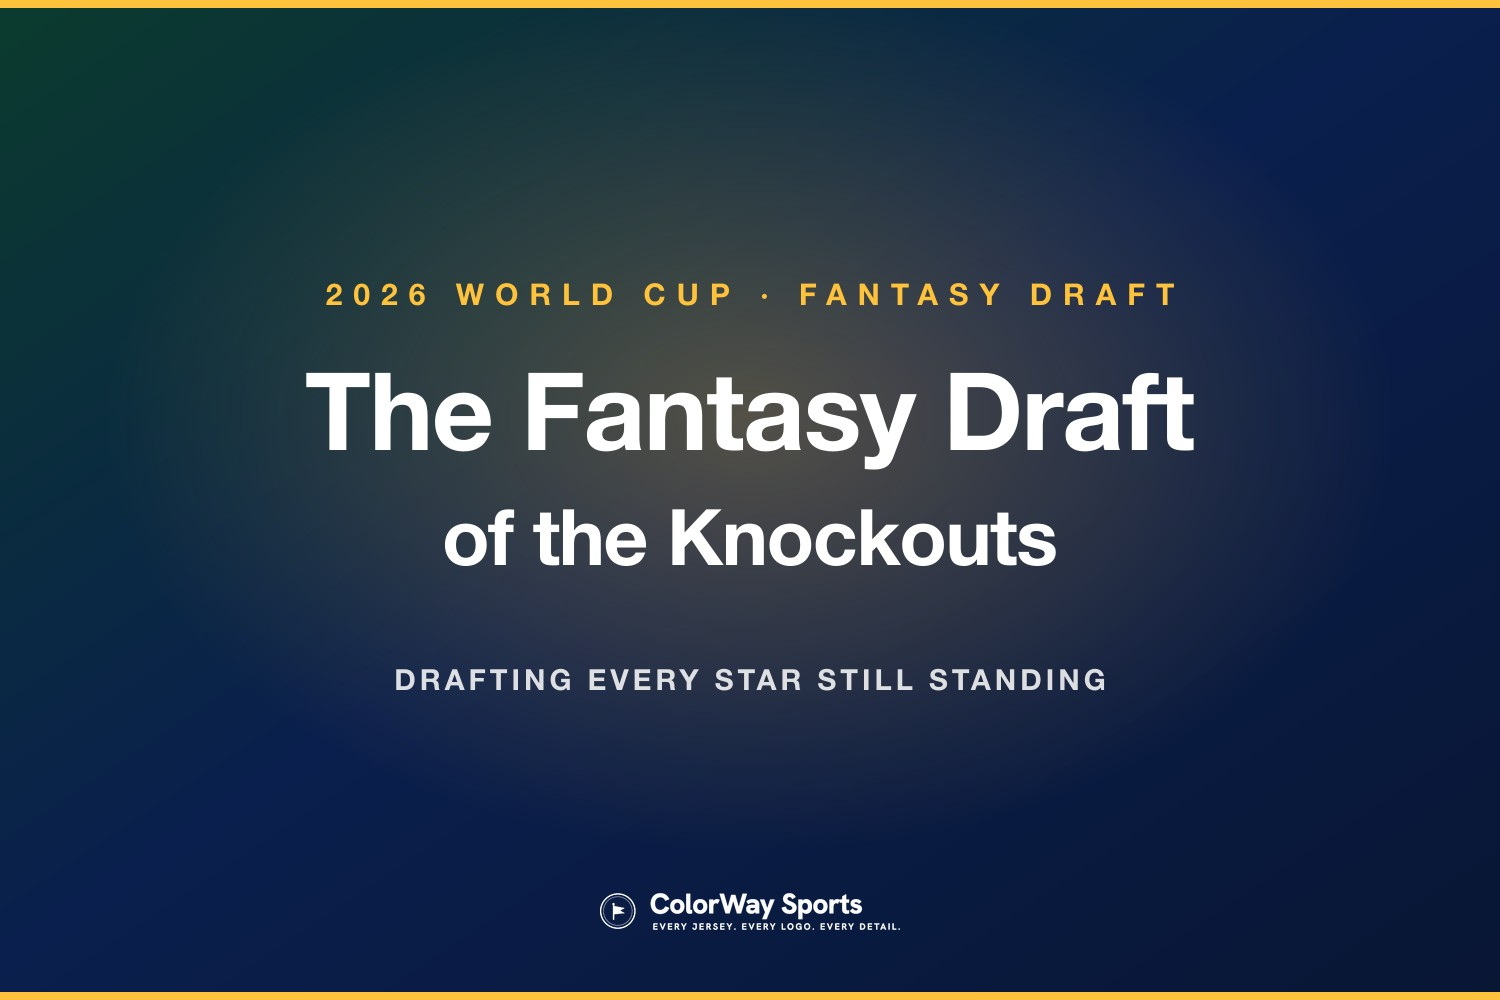
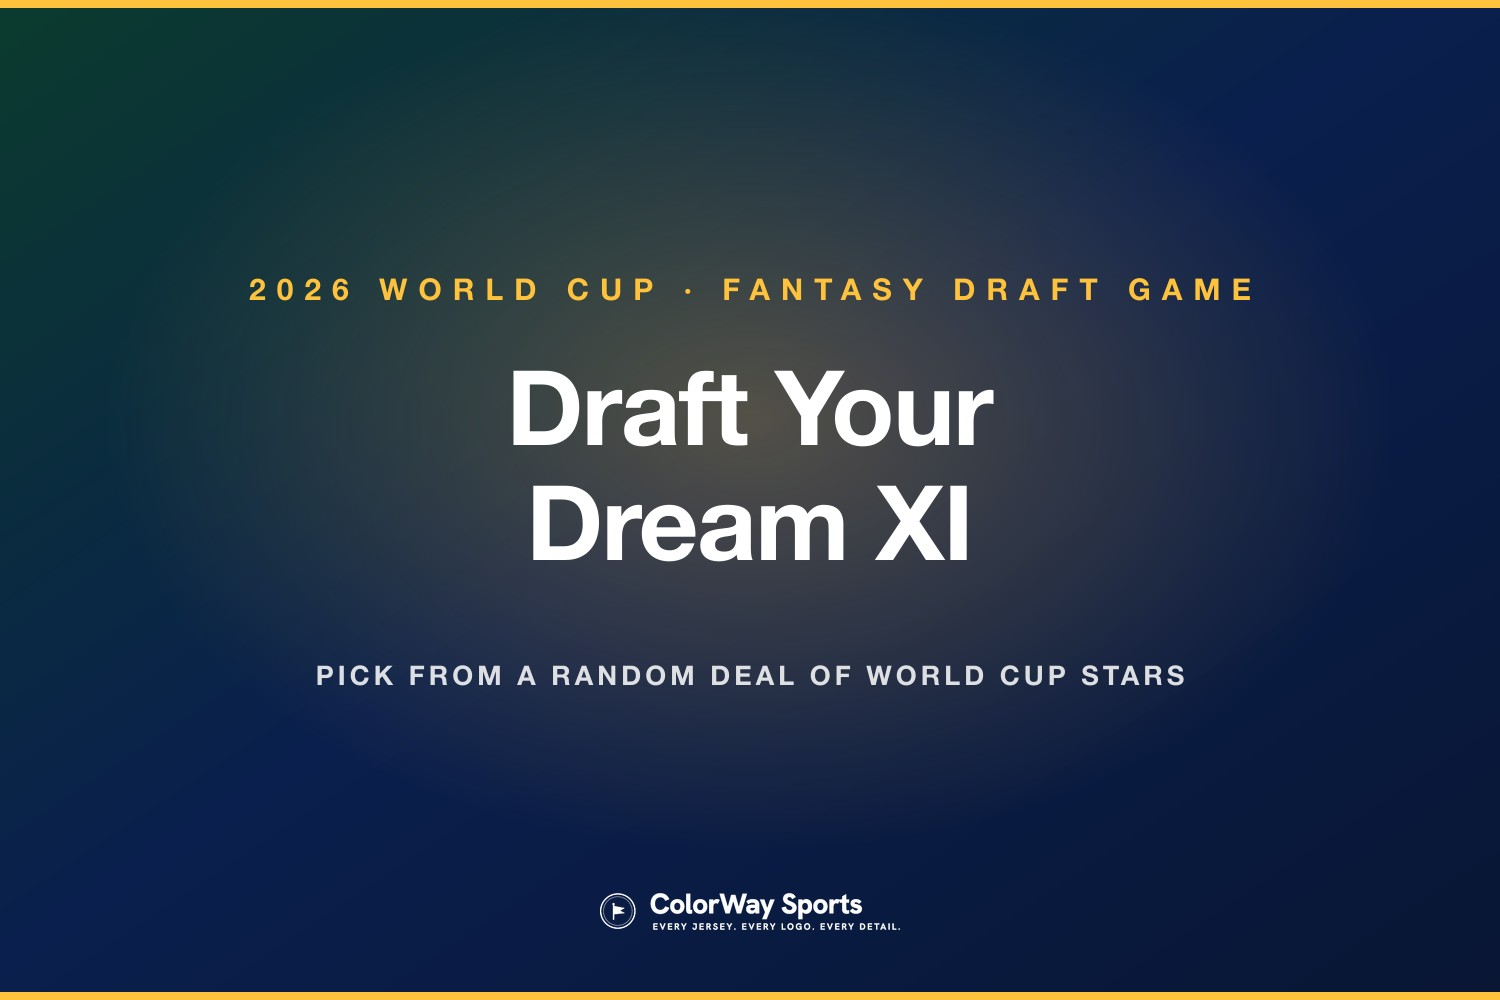
WC fantasy draft tool v2: per-slot shuffle animation, one re-roll per draft, send-to-friends share, max SEO/clickbait copy + FAQ, homepage card (centered, below the two), matched cover. STILL on branch only — not live.

Changed region(s): [[0.184, 0.372, 0.7973, 0.589], [0.2147, 0.651, 0.7973, 0.713], [0.1533, 0.279, 0.828, 0.31]]

diff --git a/components/WorldCupSquadDraft.tsx b/components/WorldCupSquadDraft.tsx
@@ -1,6 +1,6 @@
 "use client";
 
-import { useState, useEffect, useCallback } from "react";
+import { useState, useEffect, useCallback, useRef } from "react";
 import {
   playerById,
   formation,
@@ -17,6 +17,8 @@ const STORE_KEY = "cw-wc2026-xi-v1";
 const BRAND = "#2f6bed";
 const NAVY = "#0a1f4d";
 const PITCH = "#15803d";
+const ANIM_MS = 720;
+const ANIM_TICK = 80;
 
 function Flag({ code, h = 16 }: { code: string; h?: number }) {
   return (
@@ -33,7 +35,6 @@ function usedIds(squad: Squad, exceptSlot?: string): Set<string> {
   return s;
 }
 
-// Visual pitch rows, top (attack) to bottom (keeper).
 const ROWS: { label: string; ids: string[] }[] = [
   { label: "Forwards", ids: ["f1", "f2", "f3"] },
   { label: "Midfield", ids: ["m1", "m2", "m3"] },
@@ -44,12 +45,39 @@ const ROWS: { label: string; ids: string[] }[] = [
 export default function WorldCupSquadDraft() {
   const [squad, setSquad] = useState<Squad>({});
   const [active, setActive] = useState<string>("gk");
-  const [options, setOptions] = useState<Player[]>([]);
+  const [display, setDisplay] = useState<Player[]>([]); // cards shown (flicker while shuffling)
+  const [shuffling, setShuffling] = useState(false);
+  const [rerollUsed, setRerollUsed] = useState(false);
   const [mounted, setMounted] = useState(false);
 
-  const redeal = useCallback((slot: string, sq: Squad) => {
+  const finalRef = useRef<Player[]>([]);
+  const intervalRef = useRef<ReturnType<typeof setInterval> | null>(null);
+  const timeoutRef = useRef<ReturnType<typeof setTimeout> | null>(null);
+
+  const clearTimers = () => {
+    if (intervalRef.current) clearInterval(intervalRef.current);
+    if (timeoutRef.current) clearTimeout(timeoutRef.current);
+    intervalRef.current = null;
+    timeoutRef.current = null;
+  };
+
+  // Deal a slot with a visible shuffle: cards flicker through random players, then settle.
+  const deal = useCallback((slot: string, sq: Squad) => {
     const def = formation.find((s) => s.id === slot)!;
-    setOptions(dealOptions(def.pos, usedIds(sq, slot)));
+    const exclude = usedIds(sq, slot);
+    const final = dealOptions(def.pos, exclude);
+    finalRef.current = final;
+    clearTimers();
+    setShuffling(true);
+    setDisplay(dealOptions(def.pos, exclude));
+    intervalRef.current = setInterval(() => {
+      setDisplay(dealOptions(def.pos, exclude));
+    }, ANIM_TICK);
+    timeoutRef.current = setTimeout(() => {
+      clearTimers();
+      setDisplay(finalRef.current);
+      setShuffling(false);
+    }, ANIM_MS);
   }, []);
 
   useEffect(() => {
@@ -59,13 +87,13 @@ export default function WorldCupSquadDraft() {
       if (raw) sq = JSON.parse(raw);
     } catch {}
     const start = firstEmptySlot(sq) ?? "gk";
-    // One-time hydration from localStorage (syncing from an external store on mount).
     // eslint-disable-next-line react-hooks/set-state-in-effect
     setSquad(sq);
     setActive(start);
-    redeal(start, sq);
+    deal(start, sq);
     setMounted(true);
-  }, [redeal]);
+    return clearTimers;
+  }, [deal]);
 
   useEffect(() => {
     if (mounted) {
@@ -76,28 +104,36 @@ export default function WorldCupSquadDraft() {
   }, [squad, mounted]);
 
   const selectSlot = useCallback((slot: string) => {
+    if (shuffling) return;
     setActive(slot);
-    redeal(slot, squad);
-  }, [redeal, squad]);
+    deal(slot, squad);
+  }, [deal, squad, shuffling]);
 
   const draft = useCallback((playerId: string) => {
+    if (shuffling) return;
     setSquad((prev) => {
       const next = { ...prev, [active]: playerId };
       const nextSlot = firstEmptySlot(next);
-      const target = nextSlot ?? active;
-      setActive(target);
-      redeal(target, next);
+      if (nextSlot) {
+        setActive(nextSlot);
+        deal(nextSlot, next);
+      }
       return next;
     });
-  }, [active, redeal]);
+  }, [active, deal, shuffling]);
 
-  const shuffle = useCallback(() => redeal(active, squad), [active, redeal, squad]);
+  const reroll = useCallback(() => {
+    if (shuffling || rerollUsed) return;
+    setRerollUsed(true);
+    deal(active, squad);
+  }, [active, deal, squad, shuffling, rerollUsed]);
 
   const reset = useCallback(() => {
     setSquad({});
     setActive("gk");
-    redeal("gk", {});
-  }, [redeal]);
+    setRerollUsed(false);
+    deal("gk", {});
+  }, [deal]);
 
   const filled = Object.keys(squad).length;
   const complete = filled === TOTAL_SLOTS;
@@ -111,7 +147,7 @@ export default function WorldCupSquadDraft() {
       const file = new File([blob], "my-world-cup-xi.png", { type: "image/png" });
       const nav = navigator as Navigator & { canShare?: (d: unknown) => boolean; share?: (d: unknown) => Promise<void> };
       if (nav.canShare && nav.canShare({ files: [file] }) && nav.share) {
-        await nav.share({ files: [file], title: "My 2026 World Cup XI", text: "I drafted my 2026 World Cup XI on ColorWay Sports." });
+        await nav.share({ files: [file], title: "My 2026 World Cup XI", text: "I drafted my 2026 World Cup XI on ColorWay Sports. Draft yours and send it back: colorwaysports.com/world-cup-fantasy-draft" });
         return;
       }
     } catch {}
@@ -178,37 +214,46 @@ export default function WorldCupSquadDraft() {
       {complete ? (
         <div className="rounded-2xl p-5 text-center" style={{ background: `linear-gradient(135deg, ${NAVY} 0%, ${BRAND} 100%)` }}>
           <div className="text-[11px] font-bold uppercase tracking-[0.18em] mb-1" style={{ color: "#bcd0f5" }}>Your XI is set</div>
-          <div className="text-white text-lg font-extrabold mb-3">All 11 drafted. Share your 2026 World Cup XI.</div>
-          <button onClick={share} className="px-5 py-2.5 rounded-lg text-sm font-bold bg-white" style={{ color: NAVY }}>Share your XI</button>
+          <div className="text-white text-lg font-extrabold mb-3">All 11 drafted from the random deal. Send your XI to your friends and dare them to beat it.</div>
+          <button onClick={share} className="px-5 py-2.5 rounded-lg text-sm font-bold bg-white" style={{ color: NAVY }}>Send your XI to friends</button>
         </div>
       ) : (
         <div>
-          <div className="flex items-center justify-between mb-3">
-            <div>
-              <div className="text-[11px] font-bold uppercase tracking-wider text-gray-400">On the clock</div>
-              <div className="text-lg font-extrabold" style={{ color: NAVY }}>Pick your {posLabel[activeDef.pos]}</div>
+          <div className="flex items-center justify-between mb-3 gap-3">
+            <div className="min-w-0">
+              <div className="text-[11px] font-bold uppercase tracking-wider text-gray-400">On the clock · randomized deal</div>
+              <div className="text-lg font-extrabold truncate" style={{ color: NAVY }}>Pick your {posLabel[activeDef.pos]}</div>
             </div>
-            <button onClick={shuffle} className="px-3 py-2 rounded-lg text-[13px] font-bold text-gray-700 bg-gray-100 hover:bg-gray-200 transition shrink-0">↻ Shuffle 5</button>
+            <button
+              onClick={reroll}
+              disabled={shuffling || rerollUsed}
+              className={`px-3 py-2 rounded-lg text-[13px] font-bold transition shrink-0 ${rerollUsed || shuffling ? "text-gray-400 bg-gray-100 cursor-not-allowed" : "text-gray-700 bg-gray-100 hover:bg-gray-200"}`}
+            >
+              {rerollUsed ? "Re-roll used" : "🎲 Re-roll (1 left)"}
+            </button>
           </div>
           {mounted && (
-            <div className="grid grid-cols-1 sm:grid-cols-2 gap-2.5">
-              {options.map((pl) => (
+            <div className={`grid grid-cols-1 sm:grid-cols-2 gap-2.5 transition-opacity ${shuffling ? "opacity-90" : ""}`}>
+              {display.map((pl, i) => (
                 <button
-                  key={pl.id}
+                  key={`${active}-${i}-${pl.id}`}
                   onClick={() => draft(pl.id)}
-                  className="flex items-center gap-3 text-left px-3.5 py-3 rounded-xl border border-gray-200 bg-white hover:border-[#2f6bed] hover:bg-blue-50 transition"
+                  disabled={shuffling}
+                  className={`flex items-center gap-3 text-left px-3.5 py-3 rounded-xl border bg-white transition ${shuffling ? "border-gray-200 blur-[0.4px] scale-[0.99]" : "border-gray-200 hover:border-[#2f6bed] hover:bg-blue-50"}`}
                 >
                   <Flag code={pl.flag} h={22} />
                   <span className="min-w-0">
                     <span className="block text-[14px] font-bold text-gray-900 truncate">{pl.name}</span>
                     <span className="block text-[11px] text-gray-500">{pl.team} · {posLabel[pl.pos]}</span>
                   </span>
-                  <span className="ml-auto text-[11px] font-bold text-[#2f6bed] shrink-0">Draft →</span>
+                  {!shuffling && <span className="ml-auto text-[11px] font-bold text-[#2f6bed] shrink-0">Draft →</span>}
                 </button>
               ))}
             </div>
           )}
-          <p className="text-xs text-gray-400 mt-3">Tap a player to draft them into your {posLabel[activeDef.pos].toLowerCase()} slot, or tap any spot on the pitch to redraft it. Hit Shuffle for five new options.</p>
+          <p className="text-xs text-gray-400 mt-3">
+            {shuffling ? "Shuffling the deck…" : `Five players are dealt at random for each spot. Tap one to draft them, or use your one re-roll if you do not like the hand.`}
+          </p>
         </div>
       )}
     </div>
@@ -224,7 +269,6 @@ function drawShareImage(squad: Squad): string | null {
   const ctx = c.getContext("2d");
   if (!ctx) return null;
 
-  // pitch
   const g = ctx.createLinearGradient(0, 0, 0, H);
   g.addColorStop(0, "#1a8f45");
   g.addColorStop(1, "#0f5f30");

diff --git a/app/world-cup-fantasy-draft/page.tsx b/app/world-cup-fantasy-draft/page.tsx
@@ -4,9 +4,9 @@ import Footer from "@/components/Footer";
 import WorldCupSquadDraft from "@/components/WorldCupSquadDraft";
 
 export const metadata: Metadata = {
-  title: "2026 World Cup Fantasy Draft: Draft Your Dream XI From the Stars Still Standing | ColorWay Sports",
+  title: "2026 World Cup Fantasy Draft Game: Build Your Dream XI From the Random Deal | ColorWay Sports",
   description:
-    "Play the interactive 2026 World Cup fantasy draft. Pick one of five random players for every spot in a 4-3-3 and build your dream XI from the stars still alive in the knockouts, then share your team.",
+    "Play the free, interactive 2026 World Cup fantasy draft game. Get dealt five random stars for every spot in a 4-3-3, draft your dream XI from the players still alive in the knockouts, and send your team to your friends.",
 };
 
 export default function WorldCupFantasyDraftPage() {
@@ -14,35 +14,59 @@ export default function WorldCupFantasyDraftPage() {
     <>
       <Header />
       <main className="max-w-[820px] mx-auto px-5 py-12 sm:py-16">
-        <p className="text-[12px] font-bold uppercase tracking-[0.16em] text-[#2f6bed] mb-3">2026 World Cup · Interactive Fantasy Draft</p>
+        <p className="text-[12px] font-bold uppercase tracking-[0.16em] text-[#2f6bed] mb-3">2026 World Cup · Interactive Fantasy Draft Game</p>
         <h1 className="text-3xl sm:text-4xl font-extrabold text-[#003087] tracking-tight mb-4 leading-tight">
           Draft your 2026 World Cup dream XI
         </h1>
         <p className="text-gray-600 leading-relaxed mb-2">
-          The group stage is over and the stars are still standing. Build your ultimate 4-3-3 from the players whose teams
-          are still alive in the knockouts. For every position we deal you <strong>five random players</strong> &mdash; pick the
-          one you want, fill all 11 spots, and crown your dream team.
+          The group stage is over and the superstars are still standing. Can you build the best 4-3-3 from the players whose
+          teams are still alive in the knockouts? For every position we <strong>deal you five random stars</strong> &mdash; you
+          pick one, fill all 11 spots, and crown your dream team. Everyone gets a different deal, so no two XIs are the same.
         </p>
         <p className="text-gray-400 text-sm mb-9">
-          Tap any spot on the pitch to redraft it, hit Shuffle for five new options, and your XI saves automatically on this
-          device. When you are done, share your team.
+          Watch the deck shuffle for each spot, use your one re-roll wisely, and tap any spot on the pitch to redraft it.
+          Your XI saves automatically on this device. When you are done, send your team to your friends and dare them to beat it.
         </p>
 
         <WorldCupSquadDraft />
 
         <div className="mt-16">
-          <h2 className="text-2xl font-extrabold text-[#003087] tracking-tight mb-4">How the 2026 World Cup fantasy draft works</h2>
+          <h2 className="text-2xl font-extrabold text-[#003087] tracking-tight mb-4">How the 2026 World Cup fantasy draft game works</h2>
           <p className="text-gray-600 leading-relaxed mb-4">
-            This is a free, interactive 2026 World Cup fantasy draft. You build a full 4-3-3 starting XI &mdash; one goalkeeper,
-            four defenders, three midfielders, and three forwards. For each position, the draft deals you five random players
-            from the stars whose nations are still alive in the knockout stage. Pick the one you want and the next spot opens up.
-            Do not like your five options? Hit Shuffle for a new set, or tap any filled spot on the pitch to redraft it.
+            This is a free, interactive 2026 World Cup fantasy draft game. You build a full 4-3-3 starting XI &mdash; one
+            goalkeeper, four defenders, three midfielders, and three forwards. For each position the deck shuffles and deals
+            you five random players from the superstars whose nations are still alive in the knockout stage. Pick the one you
+            want and the next spot opens up. The deal is random, so everyone ends up with a different team.
+          </p>
+          <p className="text-gray-600 leading-relaxed mb-4">
+            Do not love your five options? You get <strong>one re-roll for the whole draft</strong>, so spend it wisely. You can
+            also tap any filled spot on the pitch to redraft it. Your team saves on your device, so you can come back and tweak it.
           </p>
           <p className="text-gray-600 leading-relaxed mb-8">
-            Your team saves on your device, so you can come back and tweak it. When the XI is complete, use the share button to
-            save an image of your dream team for your group chat or social. Want to predict how the tournament actually plays out?
-            Fill out our <a href="/world-cup-rooting-guide" className="text-[#2f6bed] font-semibold">interactive 2026 World Cup bracket</a> next.
+            When your XI is complete, hit share to save an image of your dream team and send it to your friends to see who drafted
+            the best lineup. Want to predict how the tournament actually plays out? Fill out our{" "}
+            <a href="/world-cup-rooting-guide" className="text-[#2f6bed] font-semibold">interactive 2026 World Cup bracket</a> next.
           </p>
+
+          <h2 className="text-2xl font-extrabold text-[#003087] tracking-tight mb-4">Frequently asked questions</h2>
+          <div className="space-y-5 mb-8">
+            <div>
+              <p className="font-bold text-gray-800 mb-1">How do you play the 2026 World Cup fantasy draft?</p>
+              <p className="text-gray-600 leading-relaxed">Build a 4-3-3 dream XI. For each of the 11 spots you are dealt five random players from the stars still in the World Cup, and you draft one. Fill every position, then share your team. You get one re-roll for the whole draft if you do not like a hand.</p>
+            </div>
+            <div>
+              <p className="font-bold text-gray-800 mb-1">Which players can I draft?</p>
+              <p className="text-gray-600 leading-relaxed">The pool is the marquee names from the nations still alive in the 2026 World Cup knockout stage &mdash; players like Kylian Mbappé, Erling Haaland, Mohamed Salah, Lionel Messi, Lamine Yamal, and Jude Bellingham, sorted by position so your XI always makes sense.</p>
+            </div>
+            <div>
+              <p className="font-bold text-gray-800 mb-1">Is the draft really random?</p>
+              <p className="text-gray-600 leading-relaxed">Yes. The five options for every position are shuffled and dealt at random, which is why no two drafts are the same. That is the fun of it: you have to build the best team you can from the hand you are dealt.</p>
+            </div>
+            <div>
+              <p className="font-bold text-gray-800 mb-1">Can I share my World Cup XI?</p>
+              <p className="text-gray-600 leading-relaxed">Yes. When your XI is complete, the share button saves an image of your full team that you can send straight to your friends or post on social, then challenge them to draft a better one.</p>
+            </div>
+          </div>
           <p className="text-gray-400 text-xs leading-relaxed border-t border-gray-100 pt-6">
             Player pool is a curated set of marquee names from the nations still in the 2026 FIFA World Cup knockout stage.
           </p>

diff --git a/components/HomepageTrackers.tsx b/components/HomepageTrackers.tsx
@@ -34,6 +34,16 @@ const trackers: TrackerCard[] = [
     image: "/images/world-cup-rooting-guide-cover.jpg",
     centered: false,
   },
+  {
+    href: "/world-cup-fantasy-draft",
+    kicker: "Soccer · 2026 World Cup · Interactive Game",
+    title: "2026 World Cup Fantasy Draft: Build Your Dream XI",
+    dek: "Get dealt five random stars for every spot in a 4-3-3 and draft your dream XI from the players still alive in the knockouts. Watch the deck shuffle, use your one re-roll wisely, then send your team to your friends.",
+    status: "New · Interactive",
+    grade: "A",
+    image: "/images/posts/world-cup-2026-fantasy-draft/cover.jpg",
+    centered: true,
+  },
 ];
 
 const gradeColor: Record<string, string> = {
@@ -99,7 +109,7 @@ export default function HomepageTrackers() {
           {trackers.map((t) => {
             return (
               <Link
-                key={t.slug}
+                key={t.href ?? t.slug}
                 href={t.href ?? `/stories/${t.slug}`}
                 className={`group flex flex-col gap-3 ${t.centered ? "md:col-span-2 md:w-[calc(50%-12px)] md:mx-auto" : ""}`}
                 style={{ textDecoration: "none", color: "#1a1a1a" }}
